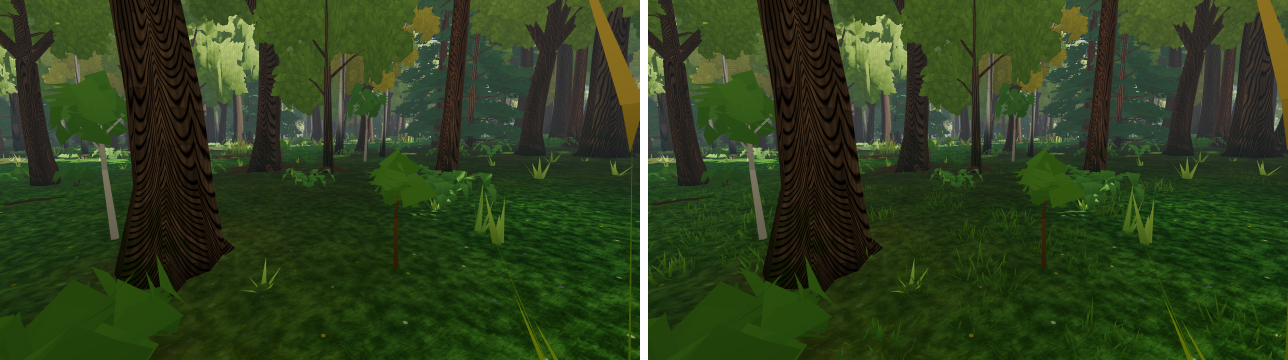
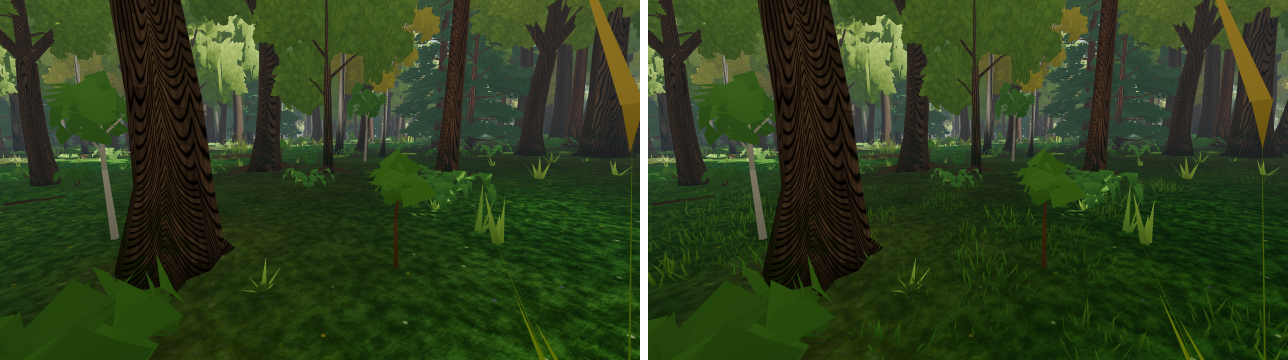
Дернина 2: тень под ней в материале земли, куртинки шире
terrain.gdshader: в полосе дернины (общий параметр ground_carpet от
VegetationLayer) дёрн темнее и зеленее у корней, проплешины светлые,
на сухом тень слабее. Куртинки 36 травинок, диаметр ~0,65 м.

diff --git a/docs/GROUND_COVER_2026_11_14.md b/docs/GROUND_COVER_2026_11_14.md
@@ -13,7 +13,7 @@
 ## Решение: отдельный ближний слой «дернины»
 
 - **Меш** `Models.build_carpet_mesh()` строится при запуске, каталог не меняется. Это куртинка
-  диаметром около 0,5 м из 32 узких травинок по одному треугольнику. Травинки высотой 6–36 см,
+  диаметром около 0,65 м из 36 узких травинок по одному треугольнику. Травинки высотой 6–36 см,
   в середине выше, каждая пятая соломенная, корни темнее. Нормаль идёт по наклону травинки,
   поэтому у куртинки есть солнечная и теневая сторона. `UV2.x` — порог поредения.
 - **Раскладка** `VegetationLayer._carpet_cell` идёт в том же фоновом проходе `_fill_grass`, что и трава.
@@ -33,6 +33,12 @@
   Раскладка — до дальности + 8 м (шаг обновления), невидимый край растворён заранее.
   Дальние луга не меняются: там работают тон земли и дальние формы.
 
+- **Тень в материале земли** (	errain.gdshader, второй шаг): под дерниной дёрн темнее и зеленее у корней,
+  как в настоящей густой траве, а проплешины остаются светлой землёй. Работает по общему параметру
+  ground_carpet (дальность и полоса растворения ставит VegetationLayer), той же полосой, что сама дернина.
+  На сухом тень слабее и не зеленит, на каменистом участке почти нет. Без этого шага зелёные травинки
+  сливались с ярким дёрном и были видны только соломенные; с ним куртинки читаются ковром.
+
 Генерация мира, биомы, дороги, физика, деревья, каталог и сохранения не менялись, хеши мира те же.
 
 ## Проверка (изолированная `tools/meadow_look.gd`, Intel HD 4600, 1280×720)
@@ -43,23 +49,24 @@
 
 | Показатель | Было | Стало |
 |---|---:|---:|
-| FPS при движении | 17,76 | 17,79 |
-| p95 кадра, мс | 63,2 | 76,7 |
-| Примитивы/кадр | 1 150 790 | 1 195 959 |
-| Draw calls | 401,5 | 400,9 |
-| Куртинки / треугольники в первом виде | — | 2 974 / 95 168 |
-| Фоновая раскладка деталей, с | 3,44 | 4,08 |
-| Static memory, МиБ | 391,6 | 397,7 |
+| FPS при движении | 17,76 | 16,64 |
+| p95 кадра, мс | 63,2 | 83,6 |
+| Примитивы/кадр | 1 150 790 | 1 224 184 |
+| Draw calls | 401,5 | 401,4 |
+| Куртинки / треугольники в первом виде | — | 2 974 / 107 064 |
+| Фоновая раскладка деталей, с | 3,44 | 3,91 |
+| Static memory, МиБ | 391,6 | 397,1 |
 
 Ошибок высоты, воды и полотна у куртинок первого вида нет (`carpet_errors = 0`), переполнений нет.
-Средний FPS тот же, p95 вырос: в худшем направлении (взгляд вдоль густого луга) на HD 4600 кадр дороже.
+Средний FPS ниже на 6 % (в пределах шума HD 4600), p95 вырос на треть: в худшем направлении
+(взгляд вдоль густого луга) на HD 4600 кадр дороже.
 Числа на HD 4600 шумные (±10 %), на GTX 1650 SUPER не проверено. Раскладка в фоне длиннее
 примерно на 0,3–0,6 с при 3–4 с всего: это GDScript-проход по ячейкам, кадр он не задерживает.
 
 Снимки (слева было, справа стало): [луг вблизи](images/ground_cover_meadow_near.png),
 [луг](images/ground_cover_meadow.png), [лес вблизи](images/ground_cover_forest_near.png),
 [предгорье](images/ground_cover_foothill.png), [у дороги, сухие пятна](images/ground_cover_road.png),
-[склон](images/ground_cover_rocky.png). Сырые данные: [было](data/ground_cover_2026_11_14/before.json),
+[склон](images/ground_cover_rocky.png), [сырая низина](images/ground_cover_wet.png). Сырые данные: [было](data/ground_cover_2026_11_14/before.json),
 [стало](data/ground_cover_2026_11_14/after.json).
 
 ```text
